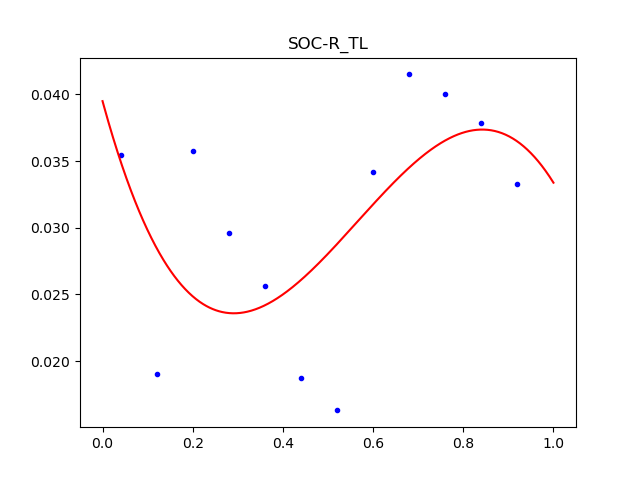
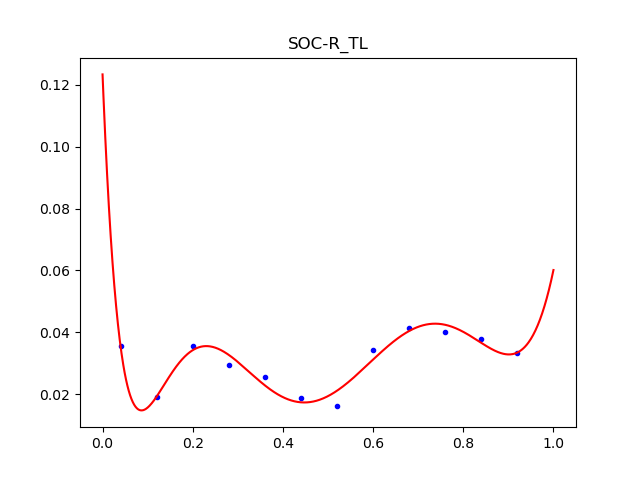
add myextract

diff --git a/myextract.py b/myextract.py
@@ -533,7 +533,7 @@ def print_lipo_model():
   # General battery and measurement parameters:
   # -------------------------------------------
 
-  filename = "./measurements/first.csv"
+  filename = "./measurements/RW9/cycle-1.csv"
   
   U_cutoff = 3.2 # [V]
   R = 24.8 # [Ohm]
@@ -569,10 +569,10 @@ def print_lipo_model():
   orders = { # order of polynomial
     "U_Eq": 8,
     "R_S" : 3,
-    "R_TS": 5,
-    "C_TS": 5,
-    "R_TL": 5,
-    "C_TL": 5
+    "R_TS": 8,
+    "C_TS": 8,
+    "R_TL": 8,
+    "C_TL": 8
   }
   
   x0 = { # start parameters for function fitting if needed

diff --git a/plots/interval/LSfitting.m b/plots/interval/LSfitting.m
@@ -11,7 +11,7 @@ for i=1:length(files)
     xdata=table2array(cell{i}(:,1));
     ydata=table2array(cell{i}(:,2));
     scatter(xdata,ydata,'.')
-    x = lsqcurvefit(f,x0,xdata,ydata)
+    x = lsqcurvefit(f,x0,xdata,ydata);
 %     x = lsqnonlin(f,x0,xdata,ydata,options)
     xx(i,:)=x;
 
